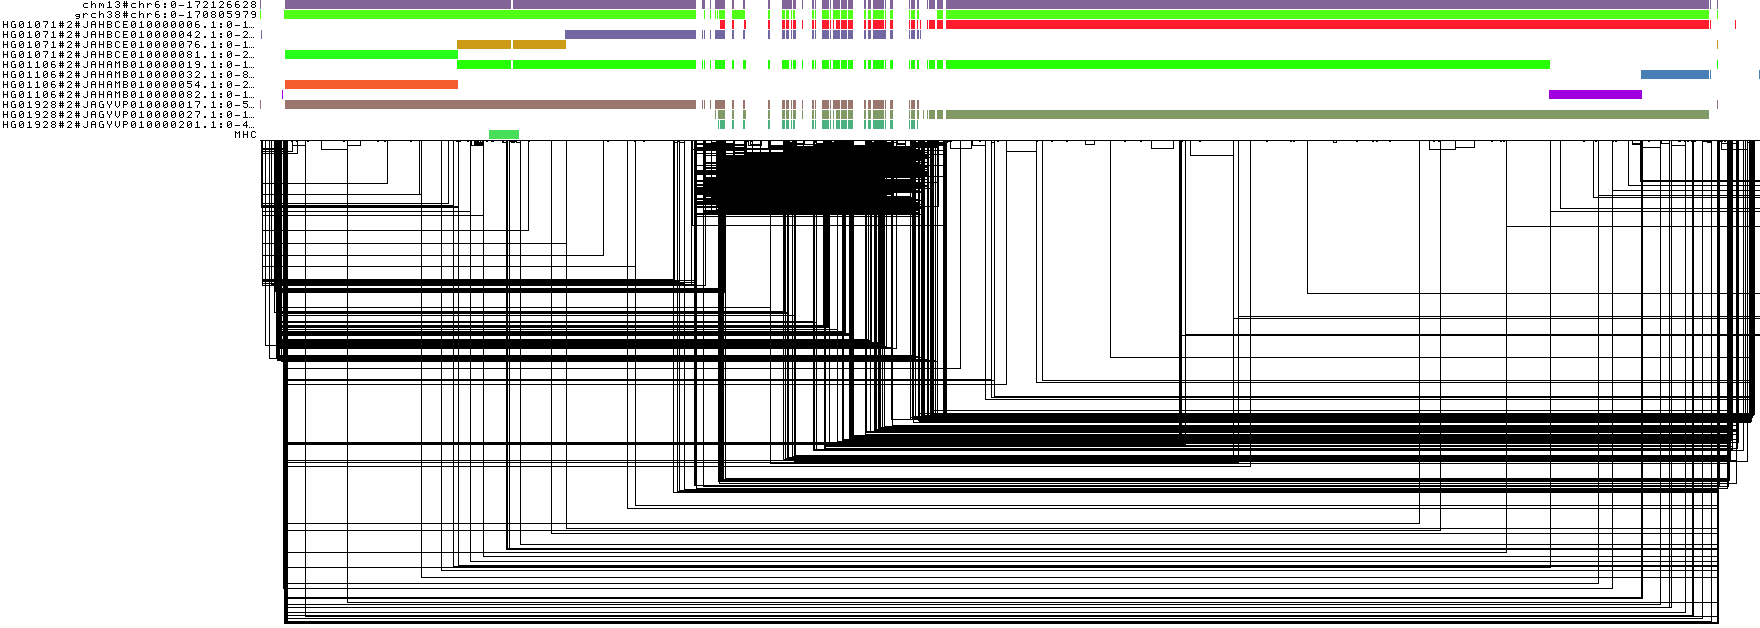
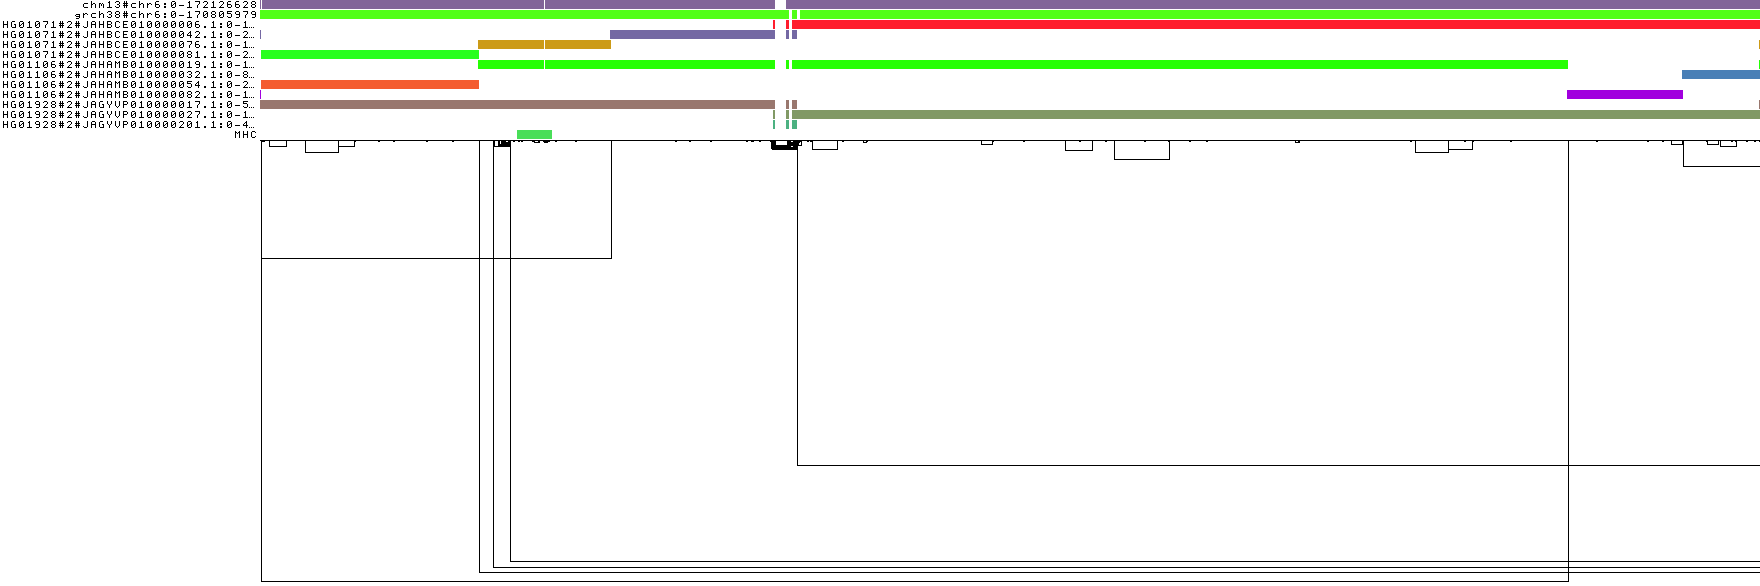
update 1D figure

Changed region(s): [[0.0, 0.0, 1.0, 1.0]]

diff --git a/manuscript/fig_1d_sorts.tex b/manuscript/fig_1d_sorts.tex
@@ -3,28 +3,28 @@
 	\begin{subfigure}{1.0\textwidth}
 		\centering
 		\caption{}
-		\includegraphics[width=1.0\linewidth, trim=0cm 2.5cm 0cm 0cm]{fig/1D/chr6.hprc-v1.0-pggb.13paths.MHC.og.png}
+		\includegraphics[width=1.0\linewidth]{fig/1D/chr6.hprc-v1.0-pggb.13paths.MHC.og.png}
 		\label{fig:1d_fig1}
 	\end{subfigure}
 	\\
 	\begin{subfigure}{1.0\textwidth}
 		\centering
 		\caption{}
-		\includegraphics[width=1.0\linewidth, trim=0cm 2.5cm 0cm 0cm]{fig/1D/chr6.hprc-v1.0-pggb.13paths.MHC.og.r.og.png}
+		\includegraphics[width=1.0\linewidth]{fig/1D/chr6.hprc-v1.0-pggb.13paths.MHC.og.r.og.png}
 		\label{fig:1d_fig2}
 	\end{subfigure}
 	\\
 	\begin{subfigure}{1.0\textwidth}
 		\centering
 		\caption{}
-		\includegraphics[width=1.0\linewidth, trim=0cm 2.5cm 0cm 0cm]{fig/1D/chr6.hprc-v1.0-pggb.13paths.MHC.og.r.og.Y.og.png}
+		\includegraphics[width=1.0\linewidth]{fig/1D/chr6.hprc-v1.0-pggb.13paths.MHC.og.r.og.Y.og.png}
 		\label{fig:1d_fig3}
 	\end{subfigure}
 	\\
 	\begin{subfigure}{1.0\textwidth}
 		\centering
 		\caption{}
-		\includegraphics[width=1.0\linewidth, trim=0cm 2.5cm 0cm 0cm]{fig/1D/chr6.hprc-v1.0-pggb.13paths.MHC.og.r.og.HY.og.png}
+		\includegraphics[width=1.0\linewidth]{fig/1D/chr6.hprc-v1.0-pggb.13paths.MHC.og.r.og.HY.og.png}
 		\label{fig:1d_fig4}
 	\end{subfigure}	
 	\caption{\textit{odgi viz} 1D visualizations of a 5 haplotypes subgraph of the Human Pangenome Resource Consortium (HPRC) chromosome 6 pangenome graph. The major histocompatibility complex (MHC) sequence was injected as an extra path. Various node arrangements are shown. 
@@ -33,6 +33,6 @@
 		\textbf{b-d} \textit{odgi viz} colored by path position. Light grey corresponds to the beginning of a path, black encodes the end of the path.
 		\textbf{(b)} The nodes are arranged randomly in 1D.
 		\textbf{(c)} The nodes are arranged applying the 1D PG-SGD algorithm.
-		\textbf{(d)} The nodes are arranged applying a 1D reference-guided PG-SGD where the nodes of GRCh38 are fixed and only all the othere ones are movable in 1D.}
+		\textbf{(d)} The nodes are arranged applying a 1D reference-guided PG-SGD where the nodes of haplotype HG01071 are fixed and only all the othere ones are movable in 1D. Although, this is the optimal sort for this haplotype, log's of longer links are now visible compared to the visualization above. This indicates a node order that is globally not optimal.}
 	\label{fig:1d_sorts}
 \end{figure*}
